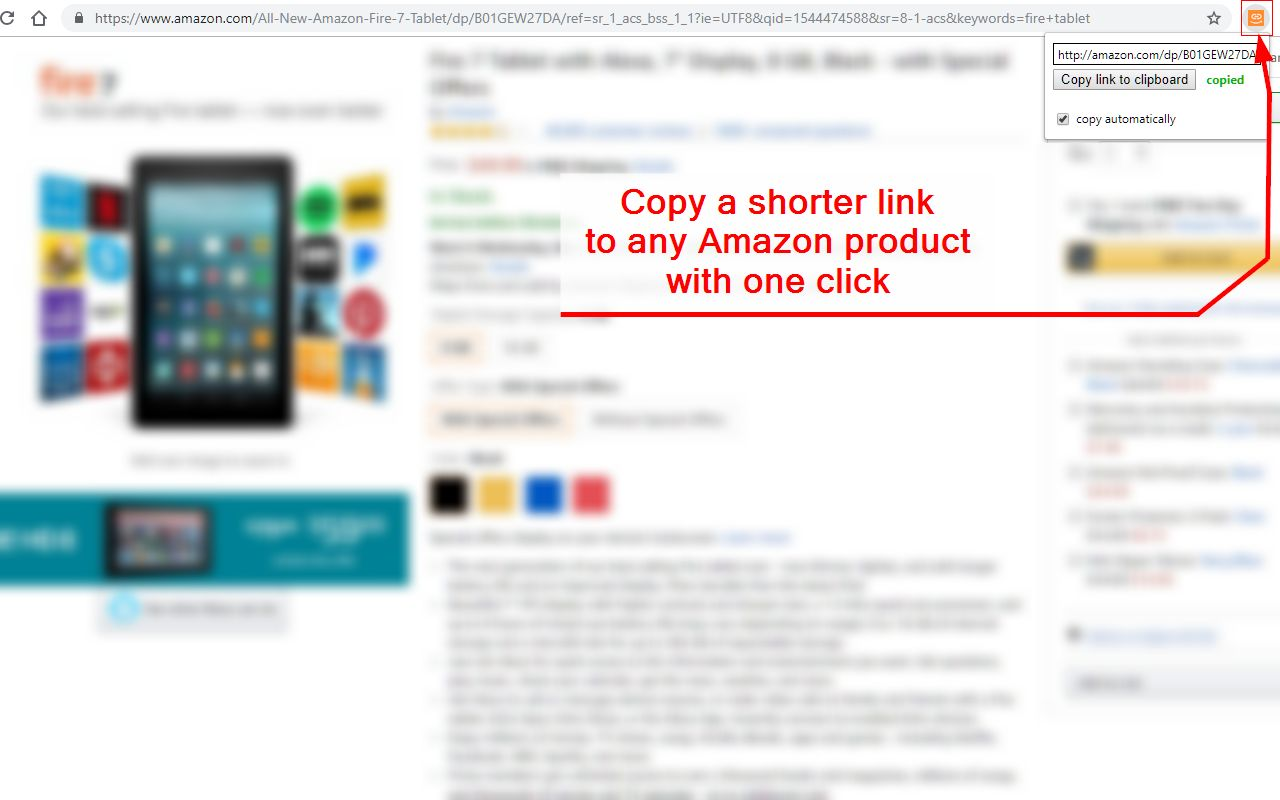
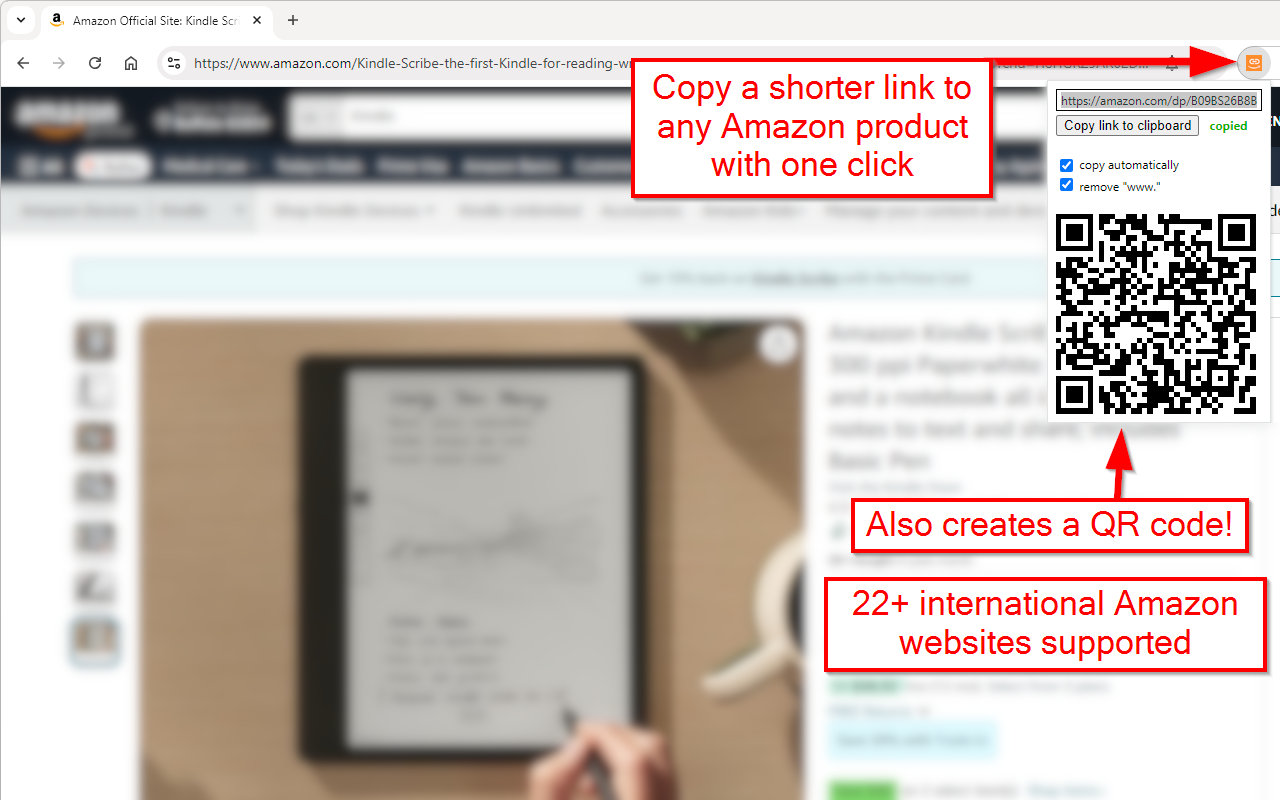
Update screenshots and readme.

diff --git a/README.md b/README.md
@@ -5,10 +5,6 @@ A chrome extension which creates a short and clean link to the current amazon.co
 
 https://chrome.google.com/webstore/detail/amazon-product-link-short/kjjlkpmgccmimghapoichdfffocambjp
 
+Version 1.7 screenshot:
 [![screenshot](https://raw.githubusercontent.com/bp2008/Amazon-Product-Link-Shortener/master/screenshot.jpg)](https://chrome.google.com/webstore/detail/amazon-product-link-short/kjjlkpmgccmimghapoichdfffocambjp)
 
-Version 1.7 screenshot:  
-![image](https://github.com/user-attachments/assets/63c7d756-324f-4928-9616-74e601ab395a)
-
-Version 1.4 screenshot:  
-![screenshot](https://github.com/bp2008/Amazon-Product-Link-Shortener/blob/master/screenshot3.png?raw=true)
